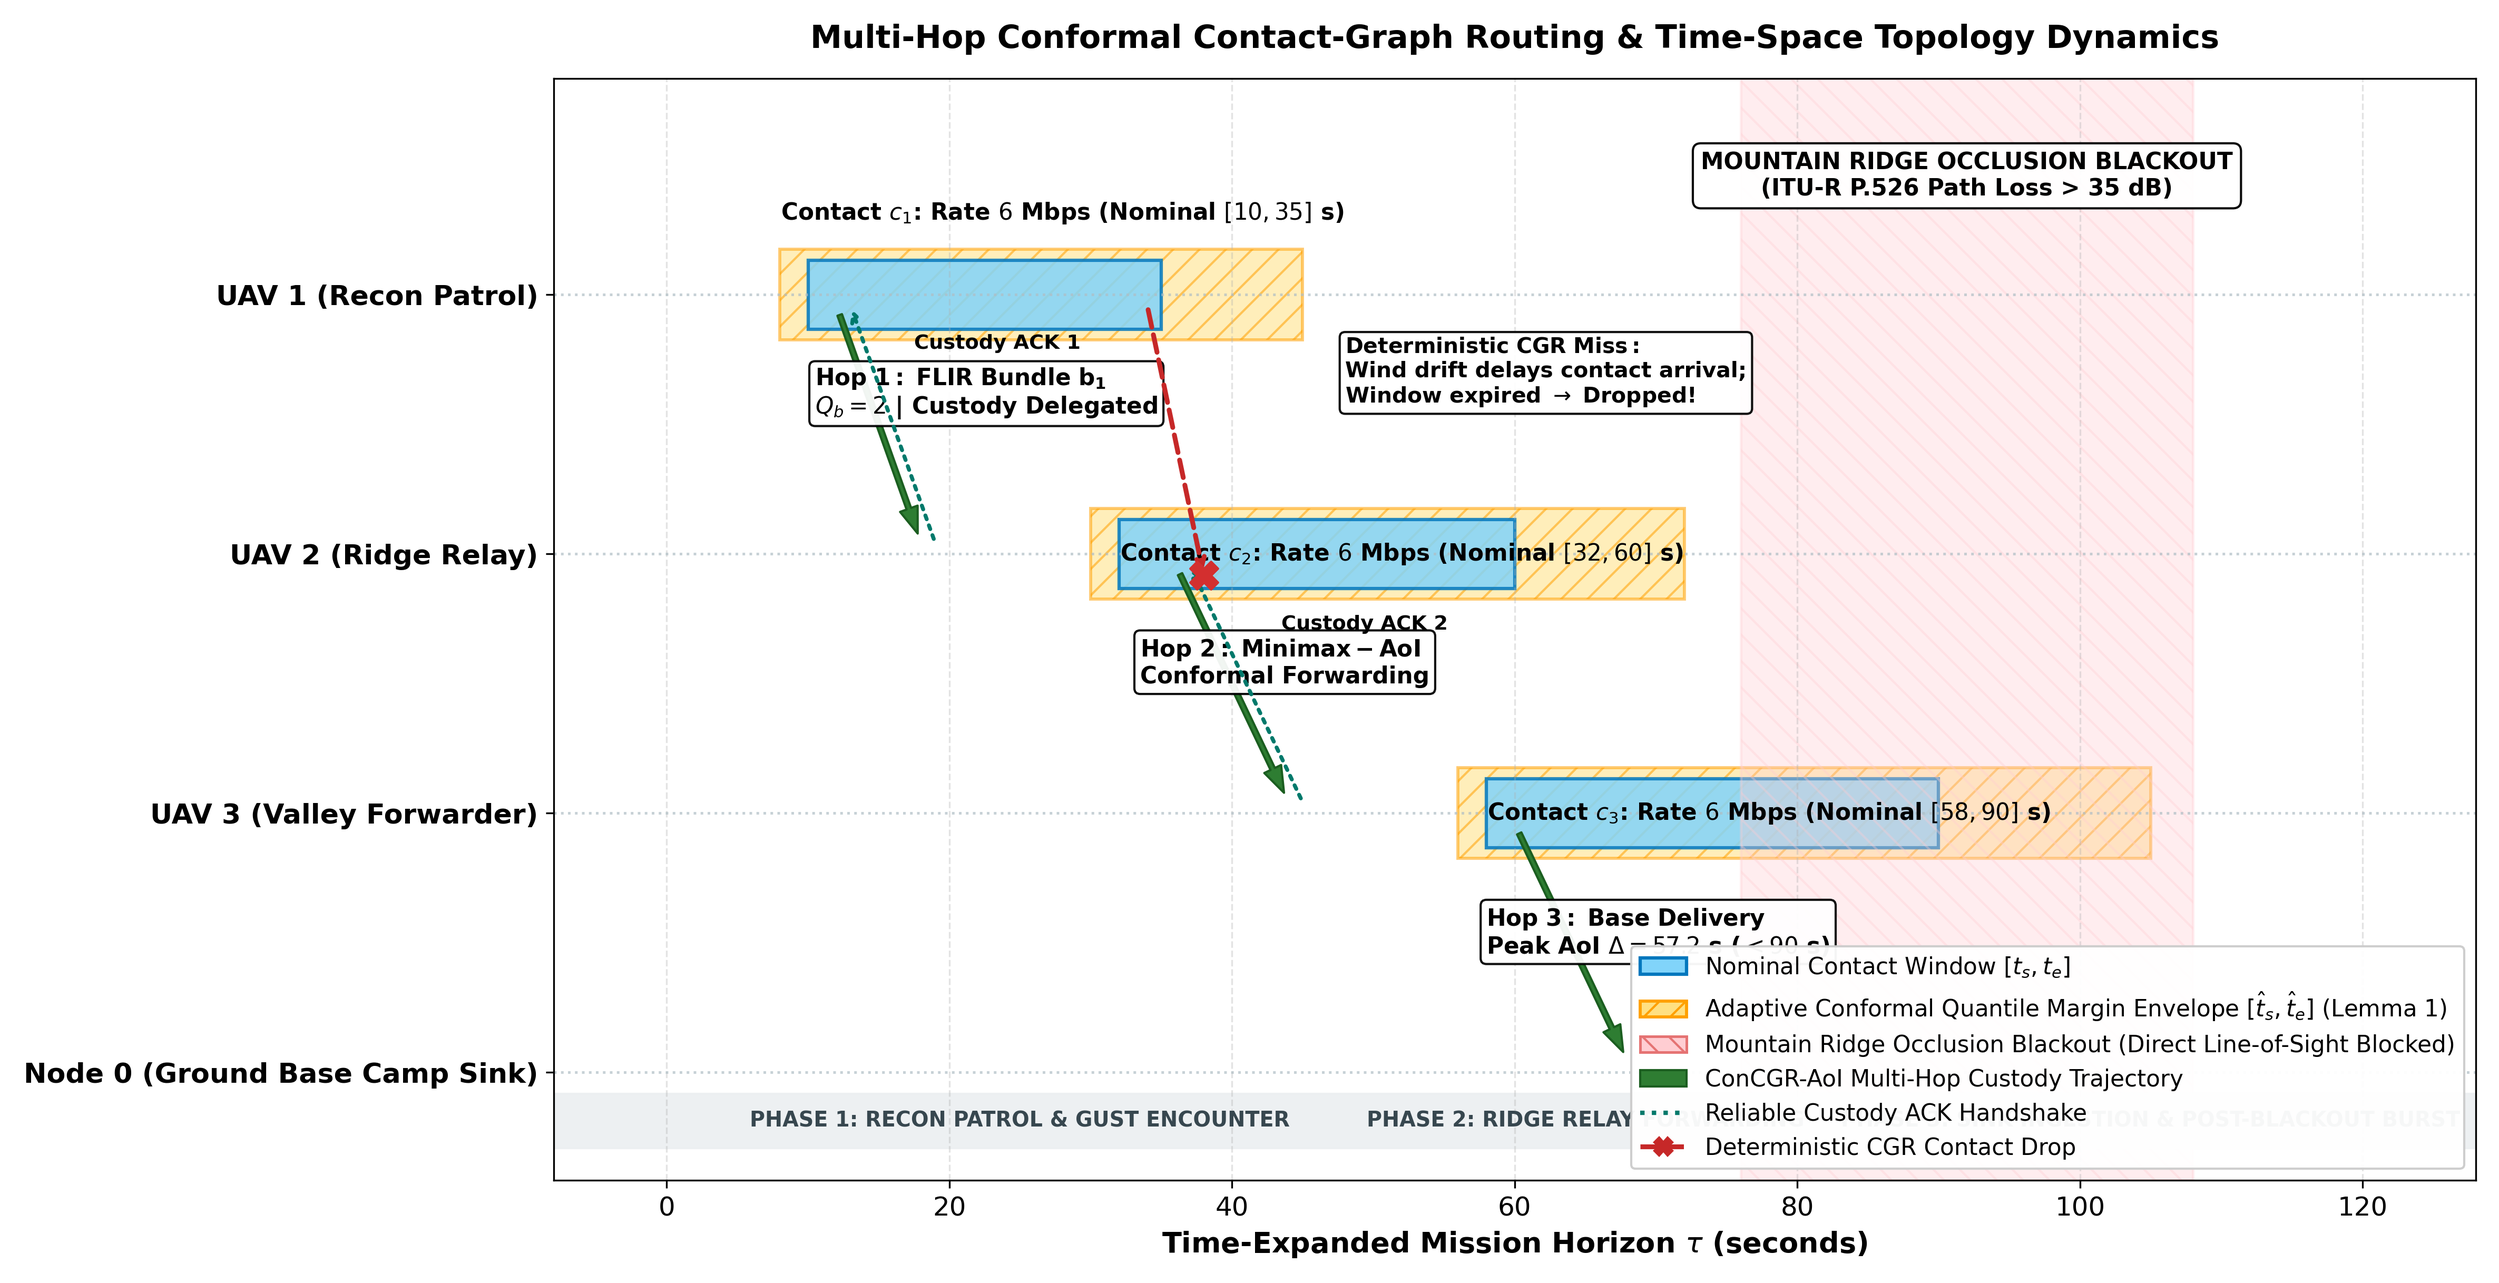
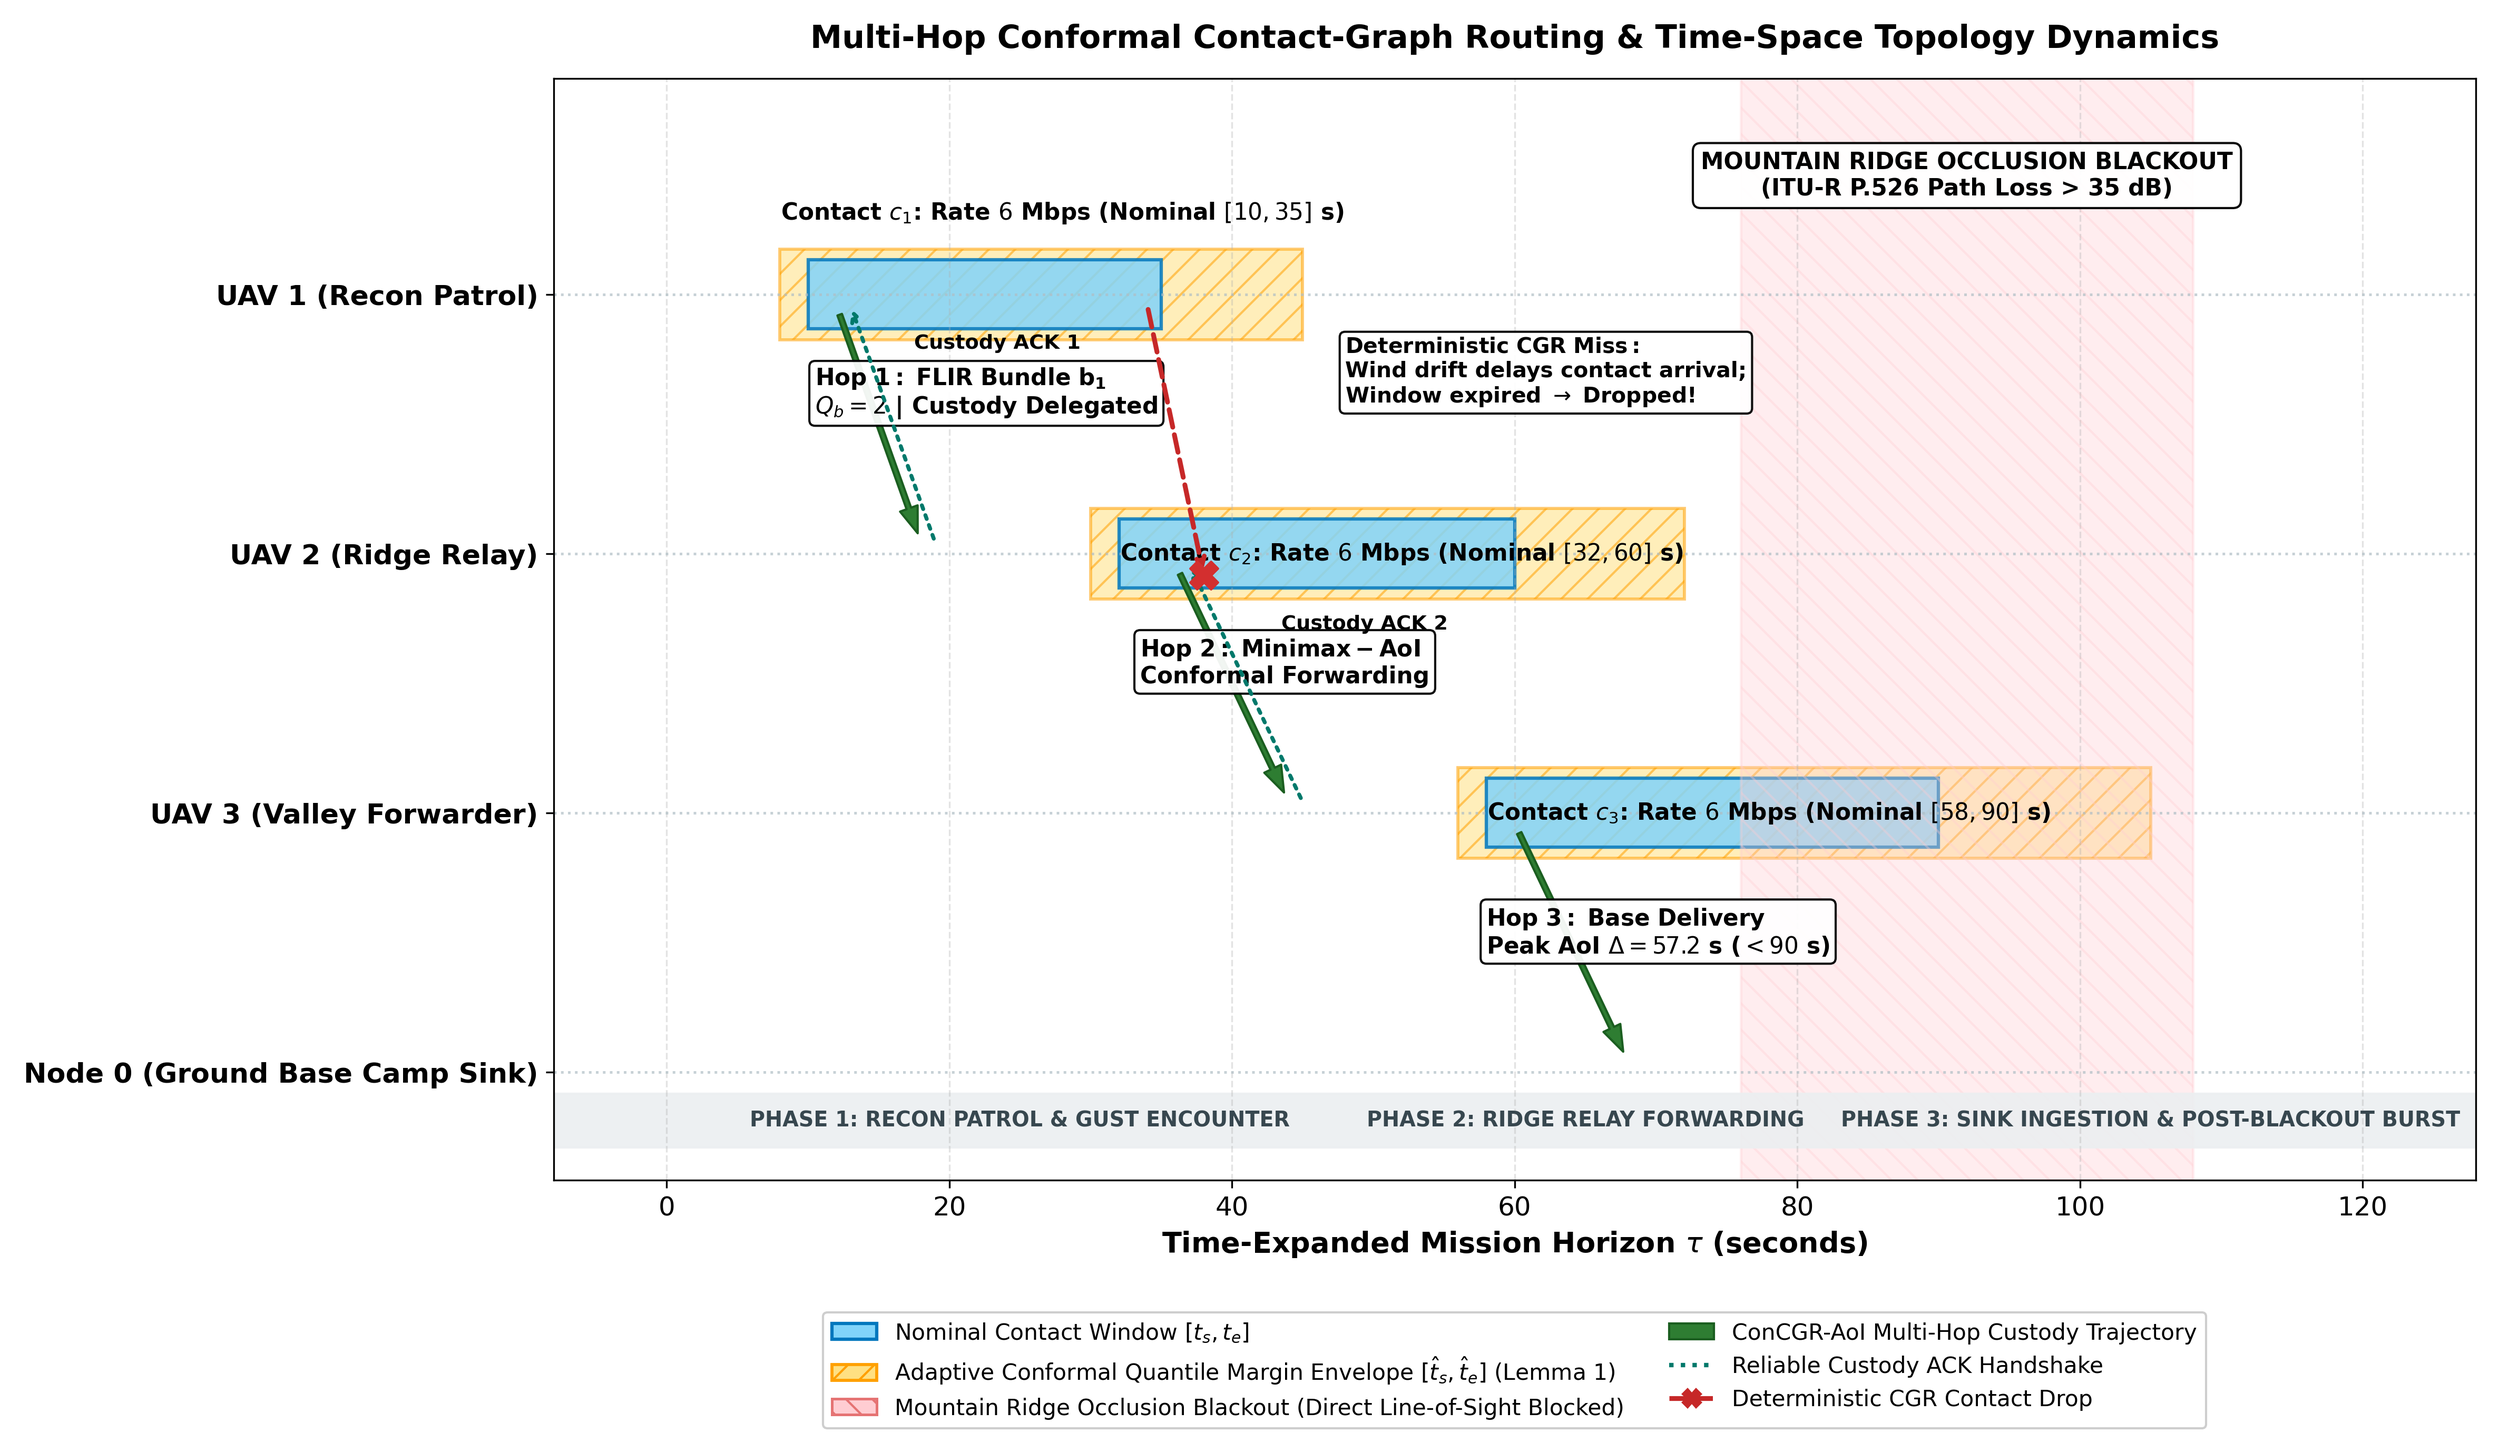
Eliminate legend overlaps in Figure 3(a) and Figure 9

diff --git a/scripts/generate_publication_figures.py b/scripts/generate_publication_figures.py
@@ -65,19 +65,19 @@ def generate_figure_3():
     e_smooth = np.convolve(e_s_true, np.ones(window)/window, mode='same')
     ax1.plot(t_steps[2:-2], e_smooth[2:-2], color='#B71C1C', lw=3.2, label='Smoothed Contact Drift Trend')
 
-    # Annotations for regimes
-    ax1.text(300, 52, "STATIONARY REGIME\n(Mean Lag $\\mu = 2.1$ s)", ha='center', va='center',
+    # Annotations for regimes (placed in open areas clear of legend and spikes)
+    ax1.text(300, 26, "STATIONARY REGIME\n(Mean Lag $\\mu = 2.1$ s)", ha='center', va='center',
              fontsize=11, fontweight='bold', color='black',
              bbox=dict(boxstyle="round,pad=0.3", fc="white", ec="black", lw=1.0, alpha=0.96))
-    ax1.text(900, 52, "NON-STATIONARY TURBULENCE\n(Wind Gusts $\\leq 18.2$ m/s, Mean $\\mu = 22.4$ s)", ha='center', va='center',
+    ax1.text(900, 58, "NON-STATIONARY TURBULENCE\n(Wind Gusts $\\leq 18.2$ m/s, Mean $\\mu = 22.4$ s)", ha='center', va='center',
              fontsize=11, fontweight='bold', color='black',
              bbox=dict(boxstyle="round,pad=0.3", fc="white", ec="black", lw=1.0, alpha=0.96))
 
     ax1.set_ylabel("Contact Lag $e_s$ (s)", fontsize=13, fontweight='bold')
     ax1.set_title("(a) Realized Contact Schedule Perturbation over Kangra Ridge DEM", fontweight='bold', fontsize=14, pad=12)
     ax1.tick_params(axis='both', labelsize=11.5)
-    ax1.legend(loc='upper left', fontsize=11, framealpha=0.96)
-    ax1.set_ylim(-2, 62)
+    ax1.legend(loc='upper left', fontsize=10.5, framealpha=0.96)
+    ax1.set_ylim(-2, 68)
 
     # Panel 2: ACI Adaptive Margin
     ax2.fill_between(t_steps, 0, q_s_aci, color='#81D4FA', alpha=0.35)

diff --git a/scripts/generate_figures_8_9_10.py b/scripts/generate_figures_8_9_10.py
@@ -369,7 +369,8 @@ def generate_figure_9():
     p5 = plt.Line2D([0], [0], color='#00796B', lw=2.0, ls=':', label='Reliable Custody ACK Handshake')
     p6 = plt.Line2D([0], [0], color='#C62828', lw=2.2, ls='--', marker='X', markersize=8, label='Deterministic CGR Contact Drop')
 
-    ax.legend(handles=[p1, p2, p3, p4, p5, p6], loc='lower right', fontsize=10.5, framealpha=0.96)
+    ax.legend(handles=[p1, p2, p3, p4, p5, p6], loc='upper center',
+              bbox_to_anchor=(0.5, -0.11), ncol=2, fontsize=10.2, framealpha=0.96, frameon=True)
 
     # Mission phase bar at bottom
     ax.axhspan(-3.5, -1.0, color='#ECEFF1', alpha=0.9)
